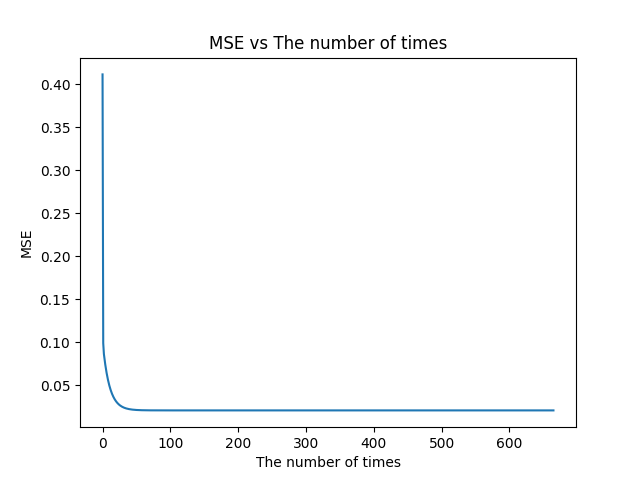
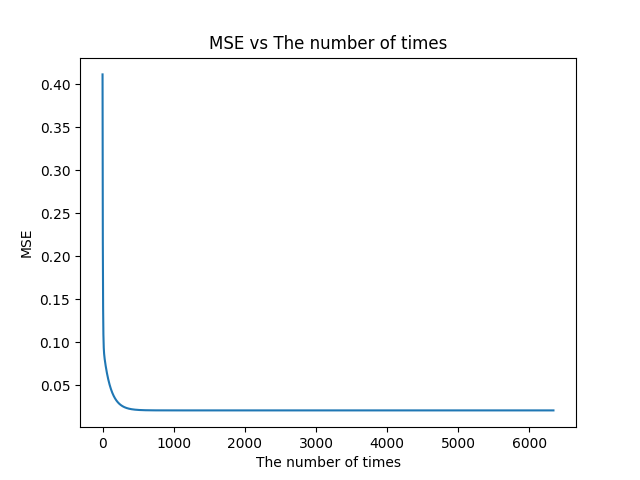
a

diff --git a/first.py b/first.py
@@ -1,0 +1,29 @@
+import pandas as pd
+from learning import estimatePrice
+
+
+def load_csv(path: str):
+    df = pd.read_csv(path)
+    return df
+
+def main():
+    try:
+        df = load_csv("data.csv")
+    except Exception as e:
+        print(e)
+        exit(0)
+    try:
+        theta = pd.read_csv("train_data.csv", index_col=0)
+    except FileNotFoundError:
+        theta = pd.DataFrame([0, 0], index=["theta0", "theta1"], columns=["value"])
+    theta0 = theta.loc["theta0", "value"]
+    theta1 = theta.loc["theta1", "value"]
+    for index in range(len(df)):
+        km_value = df["km"][index]
+        estimated_price = estimatePrice(df["km"][index], theta0, theta1)
+        real_price = df["price"][index]
+        print(f"km = {km_value}\testimateprice = {estimated_price}\tprice = {real_price}")
+
+
+if __name__ == "__main__":
+    main()

diff --git a/second.py b/second.py
@@ -62,6 +62,9 @@ def main():
     # print(len(precision))
     make_precision(precision)
 
+    theta = pd.DataFrame([theta0_scale, theta1_scale], index=["theta0", "theta1"], columns=["value"])
+    theta.to_csv("train_data.csv")
+
 if __name__ == "__main__":
     main()
 

diff --git a/learning.py b/learning.py
@@ -1,4 +1,4 @@
-LearningRate = 1
+LearningRate = 0.1
 
 def estimatePrice(km, theta0, theta1):
     return theta0 + (theta1 * km)
